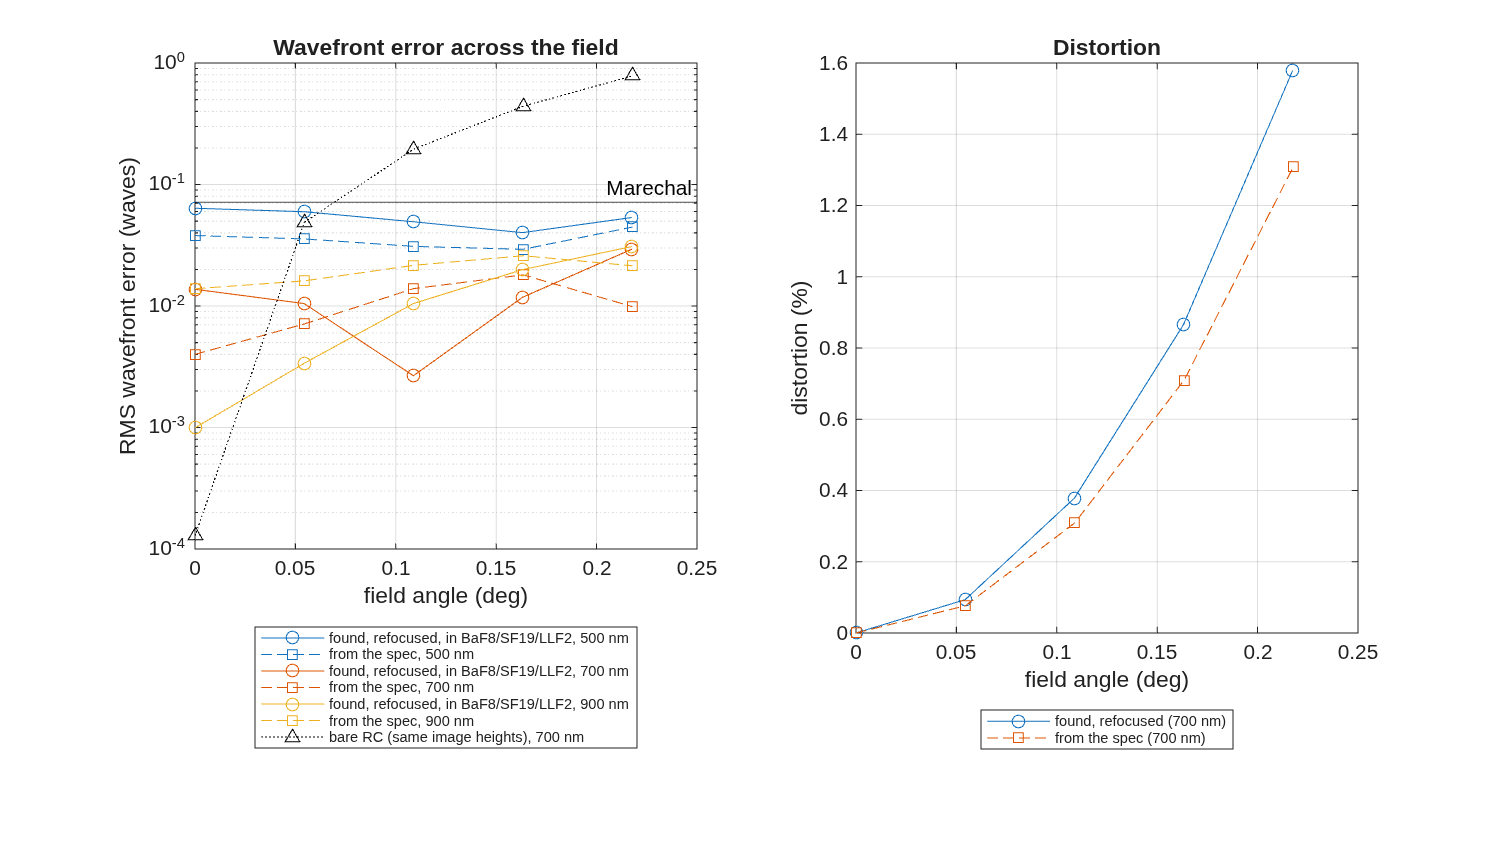
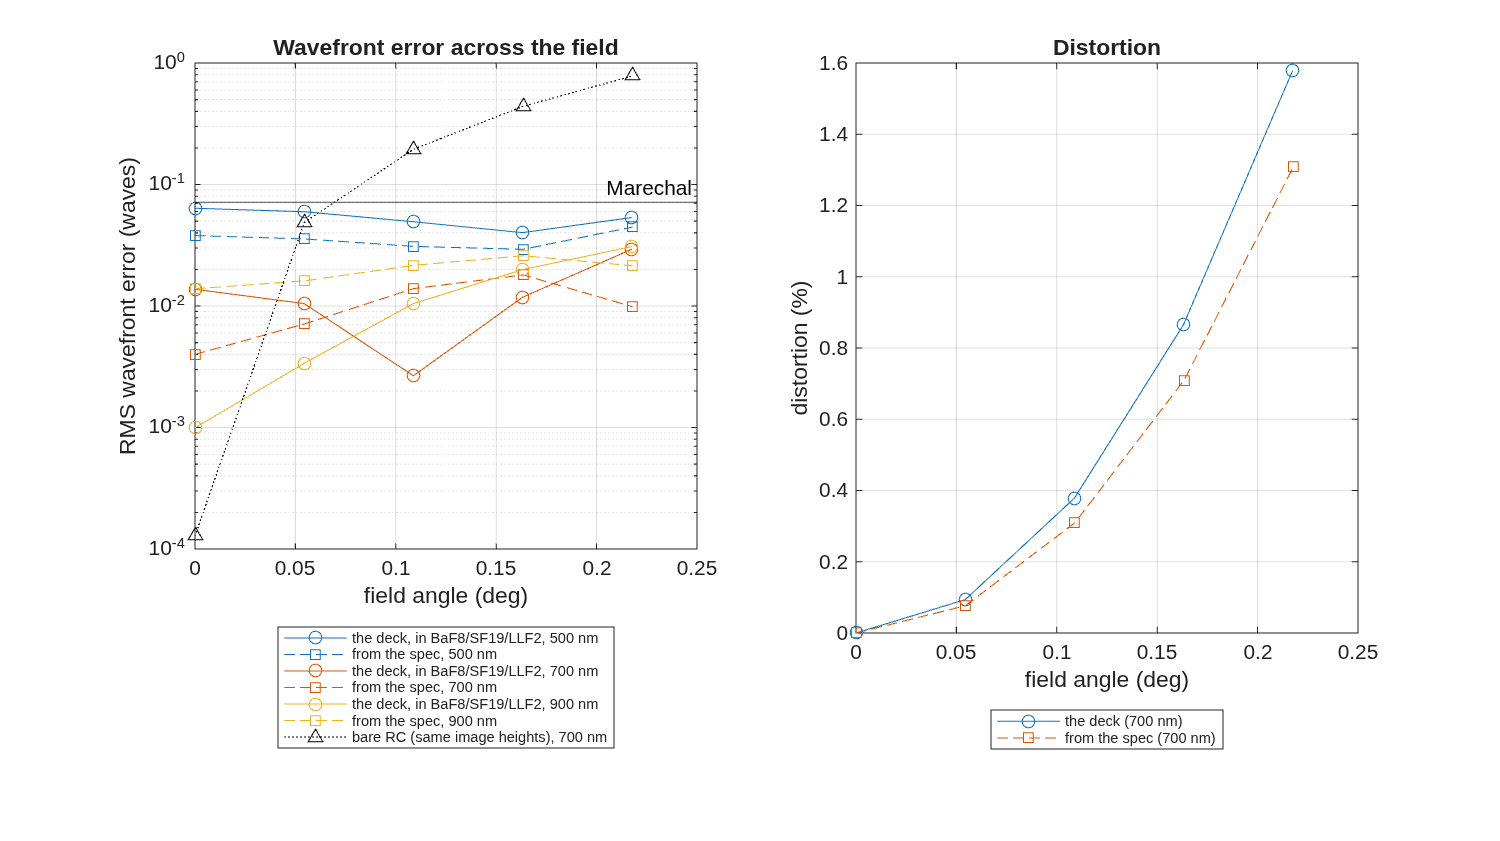
Regenerate the small-camera manual page from the template's new in-focus deck
The template now starts from small_camera.in (MACOS_resources b0f0f9b,
Dave's instruction via CCL 2026-11-02), so page 238 follows it:

- tools/part2/specs/small_camera.json: the zfocus and dsep pins (the
  stripped deck's focus error and the refocus despace) are gone; the new
  rms700 pin is the shipped deck's worst RMS at 700 nm (0.0295 waves);
  merit 0.0447 and q700 0.538 unchanged.  Caption and number text no
  longer describe the stripping.
- Transcripts, figure and pins regenerated by regen_mmacos_transcripts.py
  --repin (pins removed); page 238 by gen_part2.py.
- 00b_introduction.md: the Cameras bullet names the deck.
- PLAN_CONSOLIDATION section 4 item 6: the restart, with the SHA.

No PDF or edit-copy rebuild (CCL refreshes those).

Changed region(s): [[0.184, 0.742, 0.4293, 0.8966], [0.644, 0.8347, 0.828, 0.8966]]

diff --git a/docs/mmacos-manual/src/transcripts/p2_small_camera_run.md b/docs/mmacos-manual/src/transcripts/p2_small_camera_run.md
@@ -1,17 +1,14 @@
     ====================================================================
-     Small dedicated imager | the found deck ImageDemo.in
+     Small dedicated imager | the deck small_camera.in
      spec: D 350 mm, f 3500 mm (f/10), 2048 x 13 um pixels, band [500 700 900] nm
     ====================================================================
 
-    [1] the deck as found, stripped (36 Zernike terms removed from PRI_MIR; SEC_MIR, EXIT_RET, IMG_PL put back on the axis):
-          mirrors R1 933.7886 K1 -1.009724, R2 156.5935 K2 -1.932284, separation 400.2602 mm; D 350, obscuration 0.2669
-          paraxial at 700 nm: f 3489.94 mm (f/9.971), chief height 3506.89 mm per tan(theta) on the deck's plane; two-mirror f 3134.47, relay x1.1134
-          the paraxial focus is 0.3323 mm in front of the deck's image plane (the figure carried the focus)
+    [1] the deck:
+          mirrors R1 933.7886 K1 -1.009724, R2 156.5935 K2 -1.932284, separation 400.2542 mm; D 350, obscuration 0.2669
+          paraxial at 700 nm: f 3507.66 mm (f/10.022), chief height 3506.80 mm per tan(theta) on the deck's plane; two-mirror f 3136.10, relay x1.1185
+          the paraxial focus is 0.0167 mm behind the detector plane (depth of focus +/-0.1406 mm)
           builder vs deck (spiders and the overfilled beam dropped from both), RMS waves at [0 0.109 0.217] deg:
-            deck [0.145078 0.157236 0.174872] | builder [0.145078 0.157236 0.174872] | max |diff| 1.7e-10
-
-    [2] refocus by the secondary (CALIB, 24 iterations, floor): separation -6.08 um
-          f 3507.66 mm, chief height 3506.80 mm per tan(theta); the paraxial focus now 0.0167 mm from the detector plane
+            deck [0.0132903 0.00240764 0.0294788] | builder [0.0132903 0.00240764 0.0294788] | max |diff| 3.4e-10
             field (deg)     0.0000  0.0544  0.1087  0.1631  0.2175
             RMS  700 nm     0.0133  0.0100  0.0024  0.0121  0.0295
             distortion %     0.000   0.094   0.378   0.866   1.579
@@ -19,28 +16,28 @@
           clear semi-diameters the beam needs at 0.217 deg (paraxial): M1 175.00, M2 26.50, CORS1 12.15, CORS2 12.28, CORS3 12.59, FLTS1 12.92, FLTS2 13.29
           the primary's hole: 13.45 mm radius needed at 0.217 deg, inside the 46.70 mm shadow (clears)
 
-    [3] the glasses: the deck's indices at 700 nm against the engine's catalog:
+    [2] the glasses: the deck's indices at 700 nm against the engine's catalog:
           n = 1.617830: BaF8 1.617833 (+2.7e-06), then SK10 1.617834 (+3.8e-06)
           n = 1.657863: SF19 1.658044 (+1.8e-04), then BaSF2 1.656392 (-1.5e-03)
           n = 1.535018: LLF2 1.535595 (+5.8e-04), then BaK2 1.535830 (+8.1e-04)
-          the refocused design in BaF8 / SF19 / LLF2 over the band:
+          the deck's design in BaF8 / SF19 / LLF2 over the band:
             field (deg)     0.0000  0.0544  0.1087  0.1631  0.2175
             RMS  500 nm     0.0638  0.0597  0.0494  0.0402  0.0535
             RMS  700 nm     0.0137  0.0105  0.0027  0.0118  0.0293
             RMS  900 nm     0.0010  0.0034  0.0105  0.0199  0.0308
-            distortion %     0.000   0.094   0.378   0.866   1.579
+            distortion %     0.000   0.094   0.378   0.866   1.580
             rays lost           53      53      53      53      53 of 741 (the shadow)
           paraxial focus [51.84335 51.77524 51.74508] mm at [500 700 900] nm: spread 0.0983 mm against the +/-2 lambda N^2 = 0.1406 mm depth of focus at 700 nm
 
-    [4] the bare Ritchey-Chretien (closed form at the found m = 6.7134, beta = 0.1008: K1 -1.007387, K2 -1.906616; the deck's -1.009724, -1.932284)
-          f 3134.47 mm at its own paraxial focus, the same image heights:
-            field (deg)     0.0000  0.0608  0.1217  0.1825  0.2433
-            RMS  700 nm     0.0001  0.0489  0.1958  0.4407  0.7836
+    [3] the bare Ritchey-Chretien (closed form at the deck's m = 6.7169, beta = 0.1014: K1 -1.007381, K2 -1.905928; the deck's -1.009724, -1.932284)
+          f 3136.10 mm at its own paraxial focus, the same image heights:
+            field (deg)     0.0000  0.0608  0.1216  0.1824  0.2432
+            RMS  700 nm     0.0001  0.0488  0.1956  0.4402  0.7827
             distortion %     0.000   0.001   0.004   0.009   0.017
             rays lost           53      53      53      53      53 of 741 (the shadow)
 
-    [5] the camera from its spec: D 350 mm, f 3500 mm, primary f/1.334, BaF8 / SF19 / LLF2, the found corrector x1
-          merit = the worst RMS over [500 700 900] nm at [0 0.109 0.218] deg; seed (RC conics, the found corrector) 0.1395 waves
+    [4] the camera from its spec: D 350 mm, f 3500 mm, primary f/1.334, BaF8 / SF19 / LLF2, the deck's corrector x1
+          merit = the worst RMS over [500 700 900] nm at [0 0.109 0.218] deg; seed (RC conics, the deck's corrector) 0.1395 waves
           round 1: CALIB (corrector radii, both conics) 22 iterations, converged; after the re-solve 0.1466 waves -- not the best yet
           round 2: CALIB (corrector radii, both conics) 22 iterations, converged; after the re-solve 0.0447 waves -- KEPT (best so far)
           round 3: CALIB (corrector radii, both conics) 38 iterations, floor; after the re-solve 0.0485 waves -- not the best yet
@@ -54,6 +51,6 @@
             distortion %     0.000   0.076   0.309   0.710   1.310
             rays lost           53      53      53      53      53 of 741 (the shadow)
 
-    [6] sampling: pixel 13 um = 3.714 urad (f 3500.0 mm); field 2048 pixels = 0.4358 deg full
+    [5] sampling: pixel 13 um = 3.714 urad (f 3500.0 mm); field 2048 pixels = 0.4358 deg full
           Q = lambda N / p at [500 700 900] nm: [0.385 0.538 0.692]; Nyquist sampling is Q = 2, so the camera is undersampled x[5.2 3.71 2.89]
           (lambda/D at 700 nm is 2.000 urad: the pixel is 1.86 lambda/D)

diff --git a/docs/mmacos-manual/src/238_small_camera.md b/docs/mmacos-manual/src/238_small_camera.md
@@ -2,22 +2,21 @@
 
 A single-purpose camera whose telescope and instrument are one design: two mirrors, a corrector behind the primary's hole, a filter and one detector.  The relay's power is part of the camera's focal length.  That is what sets this family apart from an observatory front end feeding a `Bench` (the mmacos manual's chapter 2 thread).
 
-The worked case is the camera whose deck the MACOS manual carries as `ImageDemo.in` (Appendix A): a 350 mm, f/10 Ritchey–Chrétien imager with a 2048-pixel line array of 13 µm pixels (3.7 µrad per pixel, a 0.44° field) and a 500–900 nm band.  These design values are the runner's defaults, and the stripped deck is checked against them.
+The worked case is the deck beside the runner, `small_camera.in`: a 350 mm, f/10 Ritchey–Chrétien imager with a 2048-pixel line array of 13 µm pixels (3.7 µrad per pixel, a 0.44° field) and a 500–900 nm band.  These design values are the runner's defaults, and the deck is checked against them.
 
 The design layer under it is `macos.design.cass_camera` and `macos.design.camera_emit`.  The mirrors come from `Telescope`'s closed form, or are given outright.  Relay elements are `macos.design.Lens` objects.  The y-nu trace runs through the folded train, and the deck is scored with `macos.design.lens_eval`.
 
-The runner has six stages:
+The runner has five stages:
 
-1. **The deck as found, stripped.**  It removes the primary's Zernike figure and puts the secondary, the exit pupil and the image plane back on the axis.  The builder then rebuilds the stripped deck from the deck's own numbers, and the two decks trace alike.
-2. **Refocus.**  The figure carried the focus, so without it the paraxial focus falls inside the filter.  The secondary's spacing brings the image back to the deck's detector plane (CALIB on that one DOF).  The stage then reports the field at the design wavelength, the clear apertures the beam needs, and whether the primary's hole clears.
-3. **The glasses.**  The deck's fixed indices are matched to the engine's catalog (`macos_glass_list.txt`), and the band is traced with the matched glasses' dispersion.
-4. **The bare telescope.**  This is the closed-form Ritchey–Chrétien with the same m and β and no relay, which shows what the corrector is for.
-5. **The camera from its spec** (aperture, focal length, pixel, band):
+1. **The deck.**  The builder rebuilds `small_camera.in` from the deck's own numbers, and the two decks trace alike.  The stage then reports the field at the design wavelength, the clear apertures the beam needs, and whether the primary's hole clears.
+2. **The glasses.**  The deck's fixed indices are matched to the engine's catalog (`macos_glass_list.txt`), and the band is traced with the matched glasses' dispersion.
+3. **The bare telescope.**  This is the closed-form Ritchey–Chrétien with the same m and β and no relay, which shows what the corrector is for.
+4. **The camera from its spec** (aperture, focal length, pixel, band):
    - the RC closed form;
-   - the found corrector, scaled and in catalog glass;
+   - the deck's corrector, scaled and in catalog glass;
    - the first-order solve that sets the focal length and puts the focus behind the filter;
    - CALIB rounds over the band and the field.
-6. **The sampling**: λN/p at each wavelength.  The camera is undersampled by design, and the stage says by how much.
+5. **The sampling**: λN/p at each wavelength.  The camera is undersampled by design, and the stage says by how much.
 
 **Why rounds, and why "best kept".**  CALIB has no focal-length row.  Its corrector radii move the relay's magnification, so each round ends with the first-order re-solve: the two-mirror f-number and back focal distance, by two nested 1-D solves, put the focal length and the focus back on the spec.
 
@@ -40,9 +39,9 @@ out = small_camera();
 
 ![](media/p2_small_camera_fig.png)
 
-**FIGURE 64** RMS wavefront error (log scale) and distortion against field for the small dedicated imager of ImageDemo.in: the found design, stripped of its primary's figure and refocused by the secondary, in its matched catalog glasses at 500, 700 and 900 nm; the camera re-designed from its spec; and the bare Ritchey-Chretien without its corrector (`small_camera_field.png`).
+**FIGURE 64** RMS wavefront error (log scale) and distortion against field for the small dedicated imager: the deck small_camera.in in its matched catalog glasses at 500, 700 and 900 nm; the camera re-designed from its spec; and the bare Ritchey-Chretien without its corrector (`small_camera_field.png`).
 
-**The number it reproduces.** Stripped of the primary's figure, the deck's focus falls %pin:p2_small_camera_zfocus% mm short, inside the filter; a %pin:p2_small_camera_dsep% um despace of the secondary restores it.  Re-designed from its spec (D 350 mm, f 3500 mm, 500-900 nm), the camera's worst RMS over the band and the field is %pin:p2_small_camera_merit% waves, and at 700 nm the pixel samples the image at Q = lambda N / p = %pin:p2_small_camera_q700%, under Nyquist by design.
+**The number it reproduces.** As shipped, the deck's worst RMS at 700 nm is %pin:p2_small_camera_rms700% waves, at the edge of its 0.44 deg field.  Re-designed from its spec (D 350 mm, f 3500 mm, 500-900 nm), the camera's worst RMS over the band and the field is %pin:p2_small_camera_merit% waves, and at 700 nm the pixel samples the image at Q = lambda N / p = %pin:p2_small_camera_q700%, under Nyquist by design.
 
 **Adapt it.** *"Using templates/36_cameras/small_camera, design the camera for a 250 mm aperture at f = 2500 mm with 10 um pixels over 450-850 nm, and tell me the field curve at each wavelength, the distortion at the edge, which CALIB rounds were kept and how undersampled the detector is."*
 

diff --git a/PLAN_CONSOLIDATION.md b/PLAN_CONSOLIDATION.md
@@ -374,7 +374,7 @@ them; either way they go.  The per-file regeneration verdict is the rerunning la
 5. **Manual details, RULED 2026-10-19 (Dave):** the version string is 4.00 (cover and New Features alike); the two Lawrence entries stay in the reference list; no curated agent memories ship beyond Appendix D and the checked-in CLAUDE.md set -- noting that the CLAUDE.md set has been split several times and the release package must carry the CURRENT layout (root + macos_f90 + giza + slsqp + pymacos + the notes/ directory), with Appendix D pointing at it.
 3. **Mac as a release platform in phase 4** (CC's recommendation 2026-10-10): the Darwin build arms are applied and CCMac has run the engine + mmacos on Apple Silicon daily since September (the IRIS INT-saturation crash was ARM-found); not done: pymacos on Mac, Giza/XQuartz display, and any release-gate run on a clean Mac clone (build + fast suite + `cli_tests load`); `MAC_PORT.md` still says "nothing validated".  Phase 4 (CCMac runs the gate, rewrites `MAC_PORT.md` as the record) or best-effort after — Dave's call.  **2026-10-18: Dave asked for the CCMac brief now -- `BRIEF_ccmac_prerelease.md` (the Mac release checks + the MAC_PORT.md rewrite, run at the SHA CC names after each gate; the Linux clean-clone sweep and the Windows smoke stay CC's).  REPORT RECEIVED 2026-10-19 (pair macos 22750d4b + resources e211fe4, clean clone, gfortran 16.1 + Apple clang 21, arm64): no engine-source defect; load 160/160 (2 edge-ray decks differ: tst_FF_refr 51 vs 60 rays, tst_cmds_refr 56 vs 60 -- the Grating_example class); cmd 70/102 (6 pty-wrap from the long macOS $TMPDIR, 2 harness, 21 numeric pins at near-zero digits); mmacos 645/15 and pymacos 6935/8, all arm64 round-off against Linux-minted exact pins; /png and /xw render (1.2 (t) not exercised by the plots tried); self-containment: 4 hidden-dependency notes; MAC_PORT.md rewritten + `cli_tests/records/mac_gate_gfortran_22750d4.md` (CCMac's 985913a makems.sh Darwin guard, b9b459b; on the Mac, unpushed).  CC's follow-ups DONE the same day: the gate's scratch dir is `/tmp` (the pty wrap), OBS_POLYGON's `sed -i.bak` (GNU and BSD), the untracked GPERTURB fixture committed (1.2 (x)).  OPEN for Dave (section 4 item 4): the cross-architecture policy for the 21 + 15 + 8 numeric pins.**
 
-6. **A template for the ImageDemo class of camera (Dave 2026-10-19; 2026-10-23: study ImageDemo.in WITHOUT its aberrations as the basis of the design family -- `PLAN_MMACOS_MANUAL.md` chapter 2, telescope + instrument via Bench):** Cassegrain + field-corrector relay + exit-pupil Return + image plane, as a design-layer builder (`macos.design`) the way the TMA and bench builders exist -- the Mars Observer camera is the worked case.  DONE 2026-11-01 (TO, LOCAL): `macos.design.cass_camera` + `camera_emit` (res 7e9ccc4, tCassCamera), `templates/36_cameras/small_camera` (res fb4df8a, tSmallCamera; the camera's name kept out of the template and the manual on Dave's word, res c8d7ca3), Part II page 238 (`small_camera`) appended to order.txt.  Findings about the deck (ImageDemo.in unchanged; the cli corpus pins it): the primary's Zernike figure carries 0.332 mm of focus, a -6.08 um secondary despace restores it, the conics are an RC's, the fixed indices match BaF8 / SF19, the detector samples at Q = 0.538 at 700 nm.
+6. **A template for the ImageDemo class of camera (Dave 2026-10-19; 2026-10-23: study ImageDemo.in WITHOUT its aberrations as the basis of the design family -- `PLAN_MMACOS_MANUAL.md` chapter 2, telescope + instrument via Bench):** Cassegrain + field-corrector relay + exit-pupil Return + image plane, as a design-layer builder (`macos.design`) the way the TMA and bench builders exist -- the Mars Observer camera is the worked case.  DONE 2026-11-01 (TO, LOCAL): `macos.design.cass_camera` + `camera_emit` (res 7e9ccc4, tCassCamera), `templates/36_cameras/small_camera` (res fb4df8a, tSmallCamera; the camera's name kept out of the template and the manual on Dave's word, res c8d7ca3), Part II page 238 (`small_camera`) appended to order.txt.  Findings about the deck (ImageDemo.in unchanged; the cli corpus pins it): the primary's Zernike figure carries 0.332 mm of focus, a -6.08 um secondary despace restores it, the conics are an RC's, the fixed indices match BaF8 / SF19, the detector samples at Q = 0.538 at 700 nm.  **2026-11-02 (Dave via CCL): the template starts from its own deck, `small_camera.in`, the stripped deck shipped in focus (the -6.08 um despace in the deck); the strip and refocus stages and every user-facing mention of the stripping are gone (res b0f0f9b; fast 804 / 0).  Page 238 regenerated, pins rms700 0.0295 / merit 0.0447 / q700 0.538.**
 
 7. **Engine items from the manual regeneration (macos-fd's TRANSCRIPT_DIFF section 4, Dave's rulings relayed 2026-10-19: #6 fix BINARY, #8 remove the debug prints and pass CENTER's count, #9 look at PARTIALS):** acted on as 1.2 (jj), (kk), (ll) above, plus (mm), (nn), (oo) found on Dave's Section 3 decks the same afternoon; Dave to correct if the relay drifted.
 

diff --git a/docs/mmacos-manual/src/transcripts/p2_small_camera_knobs.md b/docs/mmacos-manual/src/transcripts/p2_small_camera_knobs.md
@@ -1,14 +1,14 @@
     % ====================  USER DESIGN CHOICES  ==========================
-    o.DECK         = '';           % the found deck ('' = the macos manual's ImageDemo.in)
+    o.DECK         = '';           % the deck ('' = small_camera.in beside this runner)
     o.D_MM         = 350;          % aperture (mm)
     o.EFL_MM       = 3500;         % camera focal length (mm)
-    o.PRIMARY_FNUM = NaN;          % primary f-number (NaN = the found deck's)
+    o.PRIMARY_FNUM = NaN;          % primary f-number (NaN = the deck's)
     o.PIXEL_UM     = 13;           % detector pitch (um)
     o.NPIX         = 2048;         % pixels across the field (a line array)
     o.BAND_NM      = [500 700 900];% band; the middle entry is the design wavelength
-    o.GLASSES      = {};           % corrector + filter glasses ({} = the catalog matches of the found indices)
+    o.GLASSES      = {};           % corrector + filter glasses ({} = the catalog matches of the deck's indices)
     o.CAL_FIELDS   = [0 0.5 1];    % CALIB fields as fractions of the half field
-    o.N_ROUNDS     = 4;            % stage-5 rounds (CALIB, then the first-order re-solve; the best is kept)
+    o.N_ROUNDS     = 4;            % stage-4 rounds (CALIB, then the first-order re-solve; the best is kept)
     % ---------------------------------------------------------------------
     o.NGRID  = 33;
     o.MODEL  = 128;

diff --git a/docs/mmacos-manual/src/00b_introduction.md b/docs/mmacos-manual/src/00b_introduction.md
@@ -54,9 +54,9 @@ requests will start from one of its other templates (Part II, in the order of
   catalog glasses (`macos.design.Lens`, placed on a bench by `Bench.add_optic`), and a vendor-lens
   catalog (`lens_catalog`) for as-bought achromats.
 - **Cameras**: the small dedicated imager, a Cassegrain with a refractive field corrector whose
-  telescope and instrument are one design (`macos.design.cass_camera`): the manual's
-  `ImageDemo.in` stripped of its figure, refocused, put in catalog glass, and re-designed from its
-  spec, with the sampling it was built for.
+  telescope and instrument are one design (`macos.design.cass_camera`): its deck,
+  `small_camera.in`, rebuilt, put in catalog glass, and re-designed from its spec, with the
+  sampling it was built for.
 
 ### How to use the manual
 
